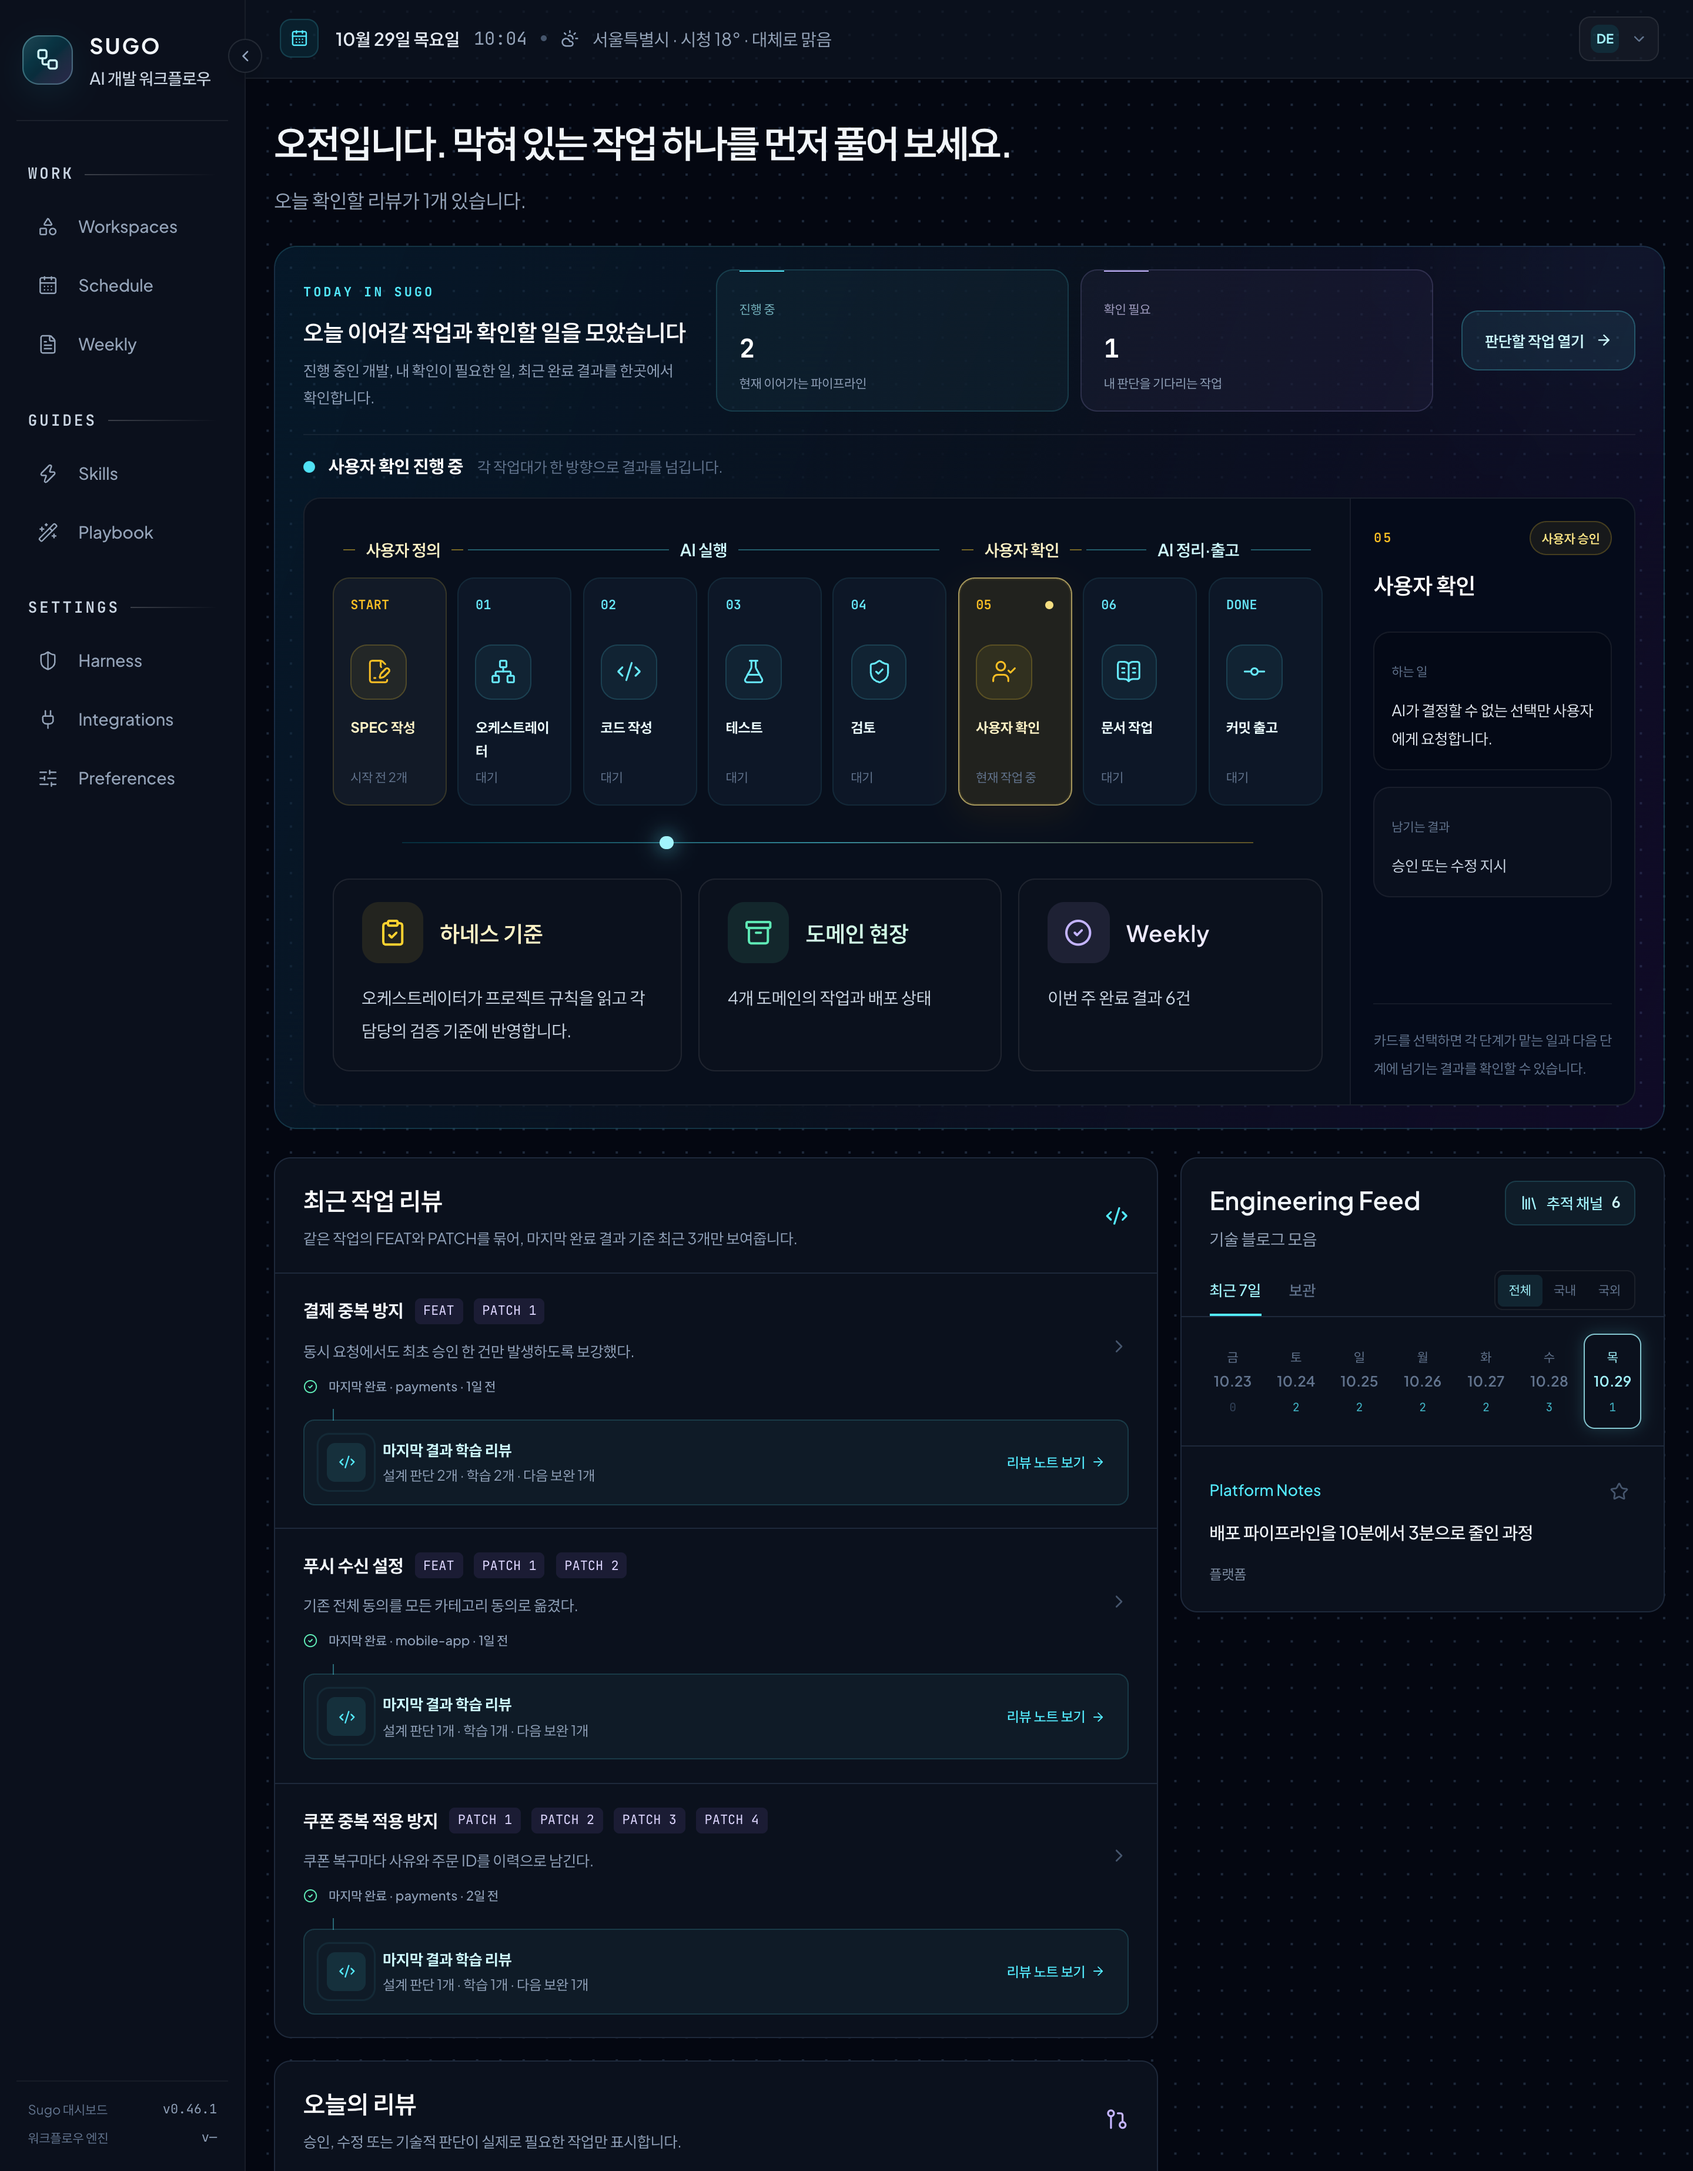
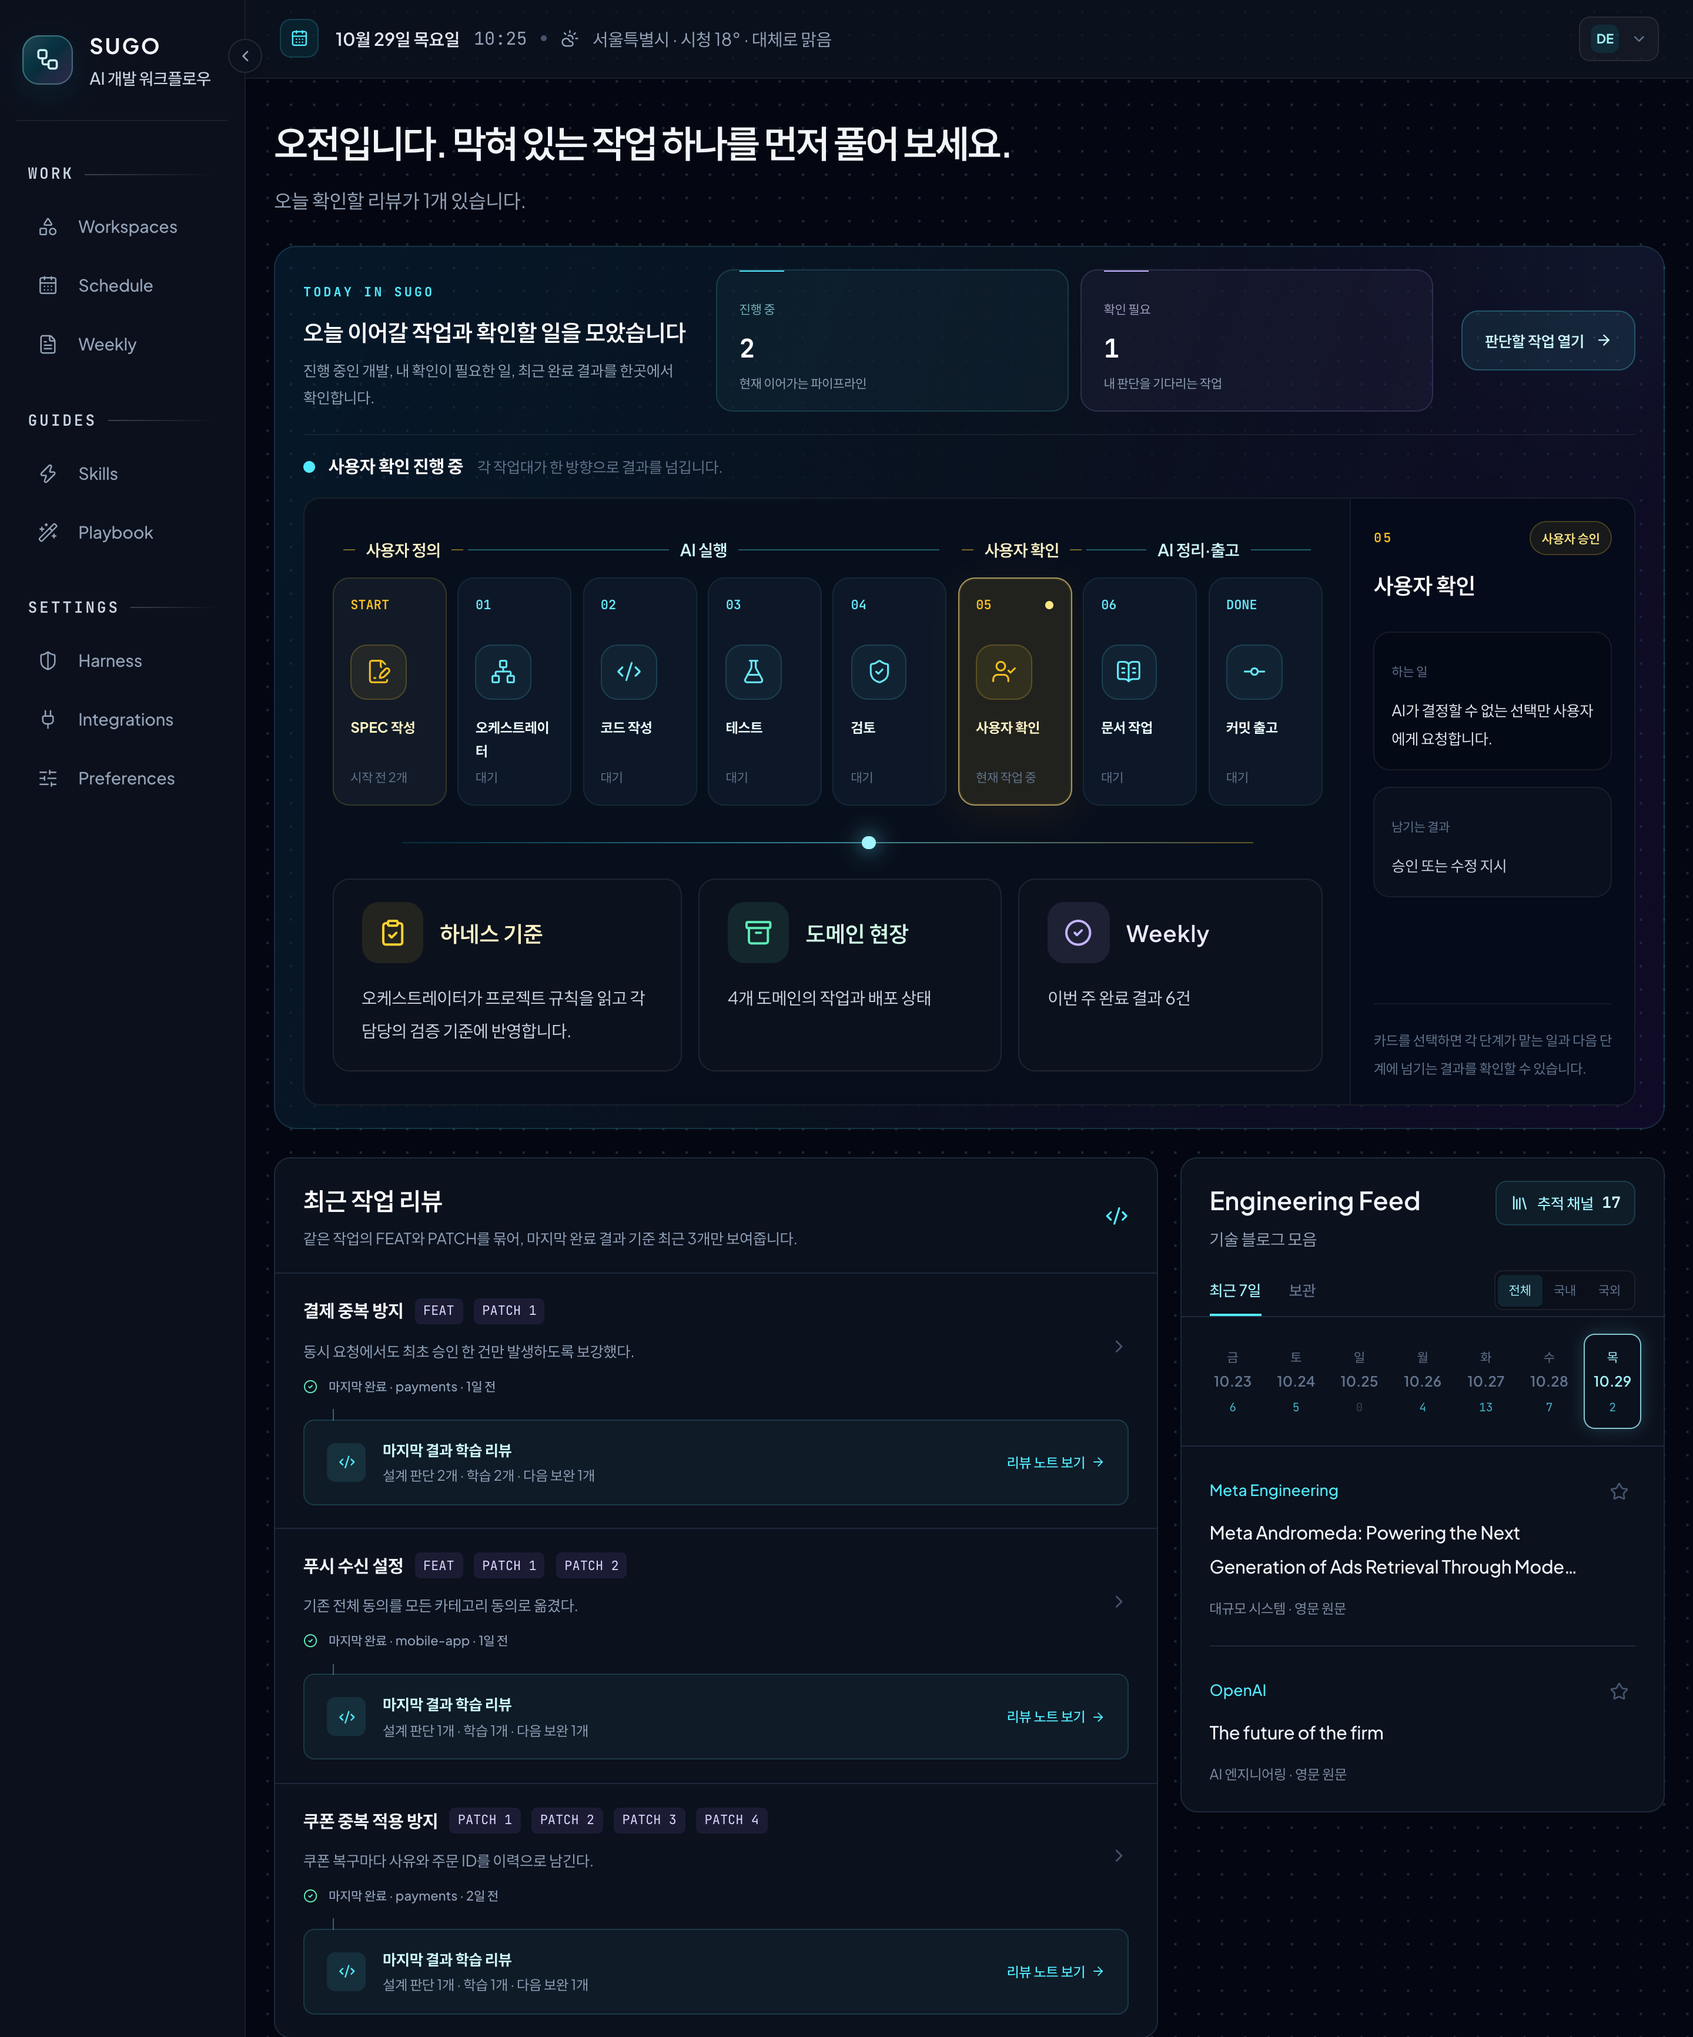
docs: add a Console guide covering setup and input flows
Add a step-by-step Console guide to both READMEs: registering projects and domains, connecting cloud accounts, PR integration, service status, and monitoring, adding a schedule and writing a spec, following progress and approving, writing domain rules, editing the harness, and setting up Weekly. Each step has a cropped screenshot of the real form. Use the real engineering feed and the full Home screen in the tour.

diff --git a/README.en.md b/README.en.md
@@ -16,6 +16,7 @@ AI agents now take a lot of the legwork out of development. But when they call a
 - [Why Sugo](#why-sugo)
 - [How it works](#how-it-works)
 - [Quick start](#quick-start)
+- [Console guide](#console-guide)
 - [Console tour](#console-tour)
 - [Commands](#commands)
 - [What installing Sugo changes](#what-installing-sugo-changes)
@@ -108,15 +109,79 @@ In Claude Code, run `/reload-plugins`, then `/sugo:version`. No build or `npm in
 
 Use absolute paths. Follow progress in the Console (`http://localhost:3001`). The Console starts with each new Claude Code session.
 
-## Console tour
+## Console guide
 
-Start with commands. Check and decide in the Console.
+The Console (`http://localhost:3001`) starts with each new Claude Code session. First register your projects and connect the external services you use, then start work from a schedule and a spec.
+
+### 1. Register projects and domains
+
+In **Integrations → 프로젝트**, choose a project folder, put it in an existing domain or create a new one, and select **프로젝트 등록**. Registration detects the stack and installs the matching harness. It is the same registration as `/sugo:ws-add` and `/sugo:add` in the terminal.
+
+![Project registration: project folder and work domain](docs/images/guide-project.png)
+
+### 2. Connect external services
+
+In **Integrations → 외부 서비스**, connect only what you need. Every integration is optional and read-only.
+
+**AWS accounts.** Enter an environment name (example: DEV), choose a local AWS CLI profile and a region, then select **환경 연결**. Keys are not stored. Drag environments to reorder them; the order becomes the deployment state shown in Schedule (LOCAL → DEV → STG → PRD). **AWS 전체 동기화** fetches service lists such as ECS and pipelines.
+
+![AWS: environment list and connection form](docs/images/guide-cloud.png)
+
+**PR integration.** GitHub uses an access token; AWS CodeCommit uses your AWS CLI or SSO login. The token is used only to check branches and read or create PRs. Commit and push use your local Git credentials.
+
+**Service status.** Choose a project and add its running services per environment from the synced list. Connected services appear in the Inspector and in Schedule deployment state.
+
+**Monitoring.** Enter a Pinpoint address to read application status and performance from the last 5 minutes.
+
+| PR integration | Service status | Monitoring |
+| --- | --- | --- |
+| ![PR integration: GitHub, AWS CodeCommit](docs/images/guide-pr.png) | ![Service status: running services per project](docs/images/guide-service.png) | ![Monitoring: Pinpoint APM](docs/images/guide-monitor.png) |
+
+See the result per project in **Integrations → 연결 현황**.
+
+![Connection status: remote repository, PR, service status, APM per project](docs/images/console-integration-status.png)
+
+### 3. Schedule and spec
+
+In **Schedule → 개발 일정 추가**, set the title, domain, project, and due date, and write a SPEC draft. Describe the problem, goal, scope, and acceptance criteria freely, and paste screen captures from your planning.
+
+![Add schedule: title, domain, project, due date, SPEC draft, planning screens](docs/images/guide-schedule-add.png)
+
+Open the schedule card to attach more planning links and captures. Choose the agent (Claude or Codex), select **SPEC 작성 명령 복사**, and paste it in the terminal to turn the draft into a buildable spec. When the spec is ready, copy the command with **feat 시작** to start development.
+
+![Spec card: planning material, work context, spec writing, and feat start](docs/images/guide-spec-draft.png)
+
+### 4. Follow progress and approve
+
+Follow running work on the Workspaces work floor and the spec card. When a person needs to confirm something, an approval request appears in Home and Schedule; read the review report and diff on the spec card, then approve or request changes. Continue a finished task with **새 Patch 시작** on the spec card.
+
+### 5. Domain rules
+
+In **도메인 규칙 관리** on a domain card, write a new rule with a folder, a name, and Markdown content. A rule applies to the whole domain or to one project, and `/sugo:checkpoint-sync` writes it to `.claude/rules/` in each project. Claude Code and Codex read these rules before they work.
+
+| Rules | New rule |
+| --- | --- |
+| ![Domain rules: rules for the whole domain and rules for one project](docs/images/console-checkpoints.png) | ![New rule: folder, name, content](docs/images/guide-rule-new.png) |
+
+### 6. Harness
+
+In **Harness**, choose a technology and version to see Sugo's default coding rules. Select **내 규칙으로 수정** to adapt them to your team and save; they become the project's verification standard from the next sync.
+
+![Harness: editing the Spring Boot rules](docs/images/guide-harness-edit.png)
+
+### 7. Weekly
+
+In **Preferences → 주간 리포트**, set the day and time, the Claude model, extra repositories, and the Claude token for scheduled runs. The Console builds the weekly report and learning notes on that schedule; run `/sugo:weekly` to build one now.
+
+![Preferences: Weekly report schedule](docs/images/console-preferences.png)
+
+## Console tour
 
 ### Home
 
-Home shows the work to continue today and the work waiting for your decision first. The work flow separates human steps from AI steps and shows which step is waiting for what.
+Home shows the work to continue today and the work waiting for your decision first. The work flow separates human steps from AI steps, and below it collect review notes from recent finished work and new posts from engineering blogs.
 
-![Home: greeting, work to continue and decisions waiting, work flow](docs/images/console-home-top.png)
+![Home: today's work, work flow, recent work reviews, Engineering Feed](docs/images/console-home.png)
 
 ### Workspaces
 
@@ -129,29 +194,16 @@ One screen shows what each domain is doing and how far it has gone.
 - **Recent work summary:** the title and finished result of the selected task.
 - **Inspector:** the domain's repositories and integrations, finished history (History), and the step records of the task (Activity).
 
-### Schedule and spec card
+### Schedule and development history
 
-The Schedule Agenda shows today, the next 7 days, and later work. Open a spec card to see its development history from the first implementation (FEAT) through every patch, and start a **new patch** from the latest result.
+The Schedule Agenda shows today, the next 7 days, and later work. A spec card shows its development history from the first implementation (FEAT) through every patch.
 
-| Agenda | Spec card |
+| Agenda | Development history and follow-up |
 | --- | --- |
 | ![Schedule Agenda: today, next 7 days, later, memos](docs/images/console-agenda.png) | ![Spec card: development history from FEAT to PATCH 4, follow-up](docs/images/console-spec.png) |
 
-### Domain rules
-
-A mistake you hit once becomes a domain rule. Each rule records why it exists and what to check, and `/sugo:checkpoint-sync` writes it to `.claude/rules/` in each project. Claude Code and Codex read these rules before they work.
-
-![Domain rules: rules for the whole domain and rules for one project](docs/images/console-checkpoints.png)
-
-### Settings
-
-| Harness | Integrations | Preferences |
-| --- | --- | --- |
-| ![Harness: Spring Boot coding rules](docs/images/console-harness.png) | ![Integrations: connection status per project](docs/images/console-integration-status.png) | ![Preferences: Weekly report schedule](docs/images/console-preferences.png) |
-| Coding rules by stack and version. Override them with your own when needed | Cloud services and per-project remote repository, PR, service status, and APM connections | Display name, weather region, Weekly schedule |
-
 > [!TIP]
-> Descriptions of every screen, including Home, Weekly, Calendar, and diff, are in the [Console tour](docs/console.en.md).
+> Descriptions of every screen, including Weekly, Calendar, and diff, are in the [Console tour](docs/console.en.md).
 
 ## Commands
 
